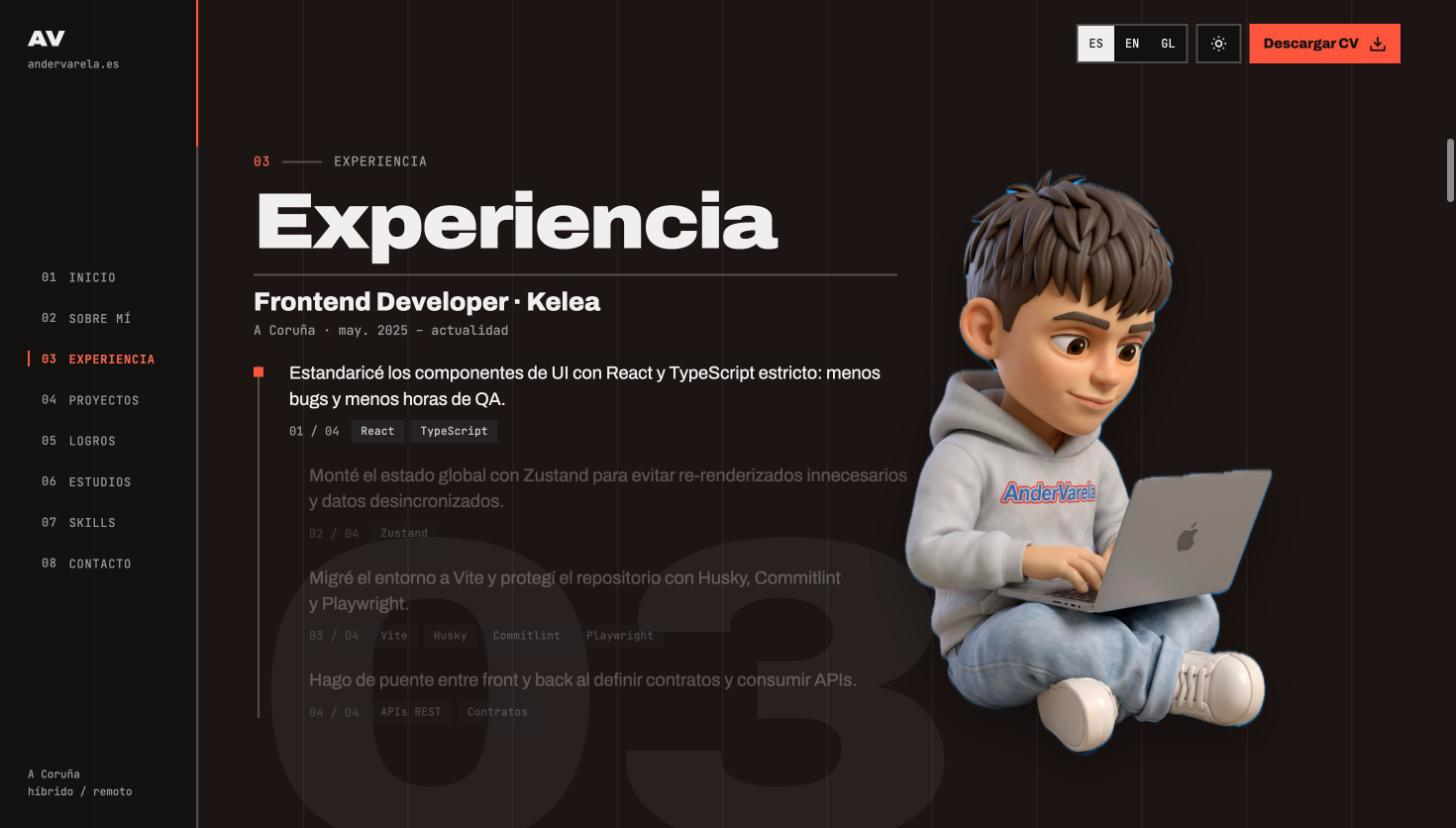
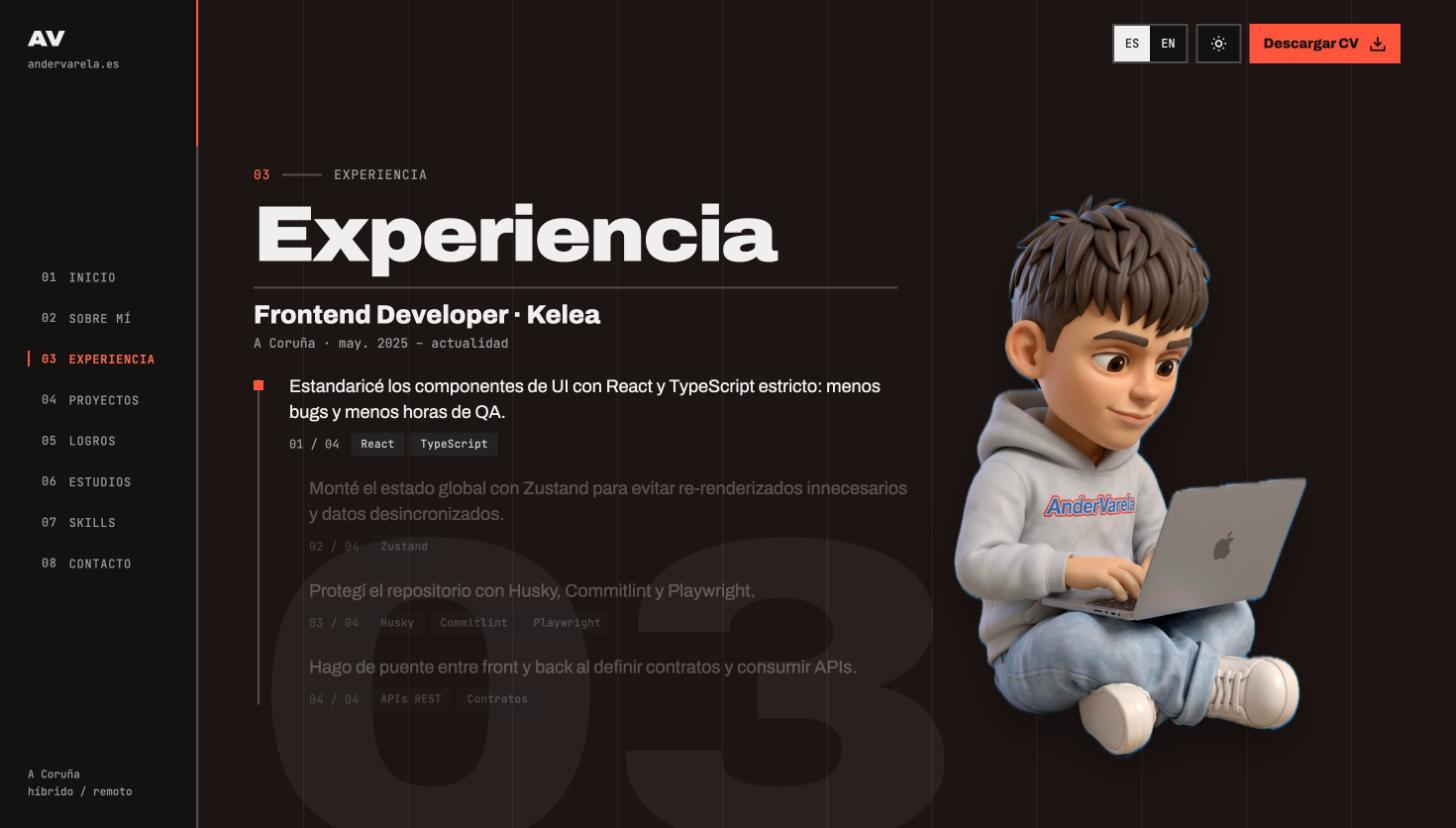
feat: remove the Galician language from the site

diff --git a/src/i18n/useTranslation.ts b/src/i18n/useTranslation.ts
@@ -3,12 +3,10 @@ import { usePreferencesStore } from '@/stores/usePreferencesStore';
 import { Languages, type Language } from './languages';
 import { englishTranslation } from './translations/en';
 import { spanishTranslation, type Translation } from './translations/es';
-import { galicianTranslation } from './translations/gl';
 
 const TRANSLATION_BY_LANGUAGE: Record<Language, Translation> = {
   [Languages.Spanish]: spanishTranslation,
   [Languages.English]: englishTranslation,
-  [Languages.Galician]: galicianTranslation,
 };
 
 export function useTranslation(): Translation {

diff --git a/src/i18n/languages.ts b/src/i18n/languages.ts
@@ -1,7 +1,6 @@
 export const Languages = {
   Spanish: 'es',
   English: 'en',
-  Galician: 'gl',
 } as const;
 
 export type Language = (typeof Languages)[keyof typeof Languages];
@@ -12,7 +11,6 @@ export const SUPPORTED_LANGUAGES: readonly Language[] = Object.values(Languages)
 export const LANGUAGE_NAMES: Record<Language, string> = {
   [Languages.Spanish]: 'Español',
   [Languages.English]: 'English',
-  [Languages.Galician]: 'Galego',
 };
 
 export const DEFAULT_LANGUAGE: Language = Languages.Spanish;

diff --git a/docs/documento-funcional.md b/docs/documento-funcional.md
@@ -42,7 +42,7 @@ Cercano y en primera persona. Se abandona el tono de venta del CV ("elimino ries
 - Avatar 3D con poses por sección y seguimiento del cursor.
 - Sistema de capas con animaciones ligadas al scroll.
 - Detalle de proyecto en capa superpuesta, sin cambiar de página.
-- Tres idiomas: español, inglés y gallego.
+- Dos idiomas: español e inglés.
 - Tema oscuro (por defecto) y claro.
 - Descarga del CV en PDF.
 - Versión adaptada a móvil y a "reducir movimiento".
@@ -81,7 +81,7 @@ Una sola URL. Cada sección tiene un ancla propia.
 - Un enlace por sección. Al pulsarlo, la página hace scroll animado hasta la sección; no hay navegación entre páginas.
 - La sección actual queda marcada en el menú y se actualiza al hacer scroll manualmente.
 - El ancla de la URL se actualiza con la sección activa, de modo que un enlace como `andervarela.es/#proyectos` abre directamente en esa sección.
-- Incluye además: selector de idioma (ES / EN / GL), conmutador de tema y botón "Descargar CV".
+- Incluye además: selector de idioma (ES / EN), conmutador de tema y botón "Descargar CV".
 - Indicador de progreso de scroll de la página.
 
 ### 4.2 Menú en móvil
@@ -267,8 +267,8 @@ Al pasar el cursor por una tecnología, se resaltan los proyectos y experiencias
 
 ### 8.1 Idiomas
 
-- Español (por defecto), inglés y gallego.
-- En la primera visita se usa el idioma del navegador si es uno de los tres; en otro caso, español.
+- Español (por defecto) e inglés.
+- En la primera visita se usa el idioma del navegador si es uno de los dos; en otro caso, español.
 - El cambio de idioma es instantáneo, no recarga la página y conserva la posición de scroll.
 - La elección se recuerda en visitas posteriores.
 - El CV descargable corresponde al idioma activo si existe esa versión; si no, se descarga el español.
@@ -316,7 +316,7 @@ En móvil se puede minimizar el avatar tocándolo.
 
 - Metadatos, Open Graph e imagen de vista previa por idioma.
 - Datos estructurados de tipo `Person`.
-- Etiquetas `hreflang` para los tres idiomas.
+- Etiquetas `hreflang` para los dos idiomas.
 
 ### 10.4 Privacidad
 
@@ -337,7 +337,7 @@ En móvil se puede minimizar el avatar tocándolo.
 | Animación y scroll | GSAP con ScrollTrigger |
 | Estado | Zustand (idioma, tema, sección activa, proyecto abierto) |
 | Estilos | CSS Modules con variables para los temas |
-| Idiomas | Ficheros de traducción por idioma (ES / EN / GL) |
+| Idiomas | Ficheros de traducción por idioma (ES / EN) |
 | Calidad | Playwright, Husky, Commitlint |
 | Despliegue | Hosting estático en `andervarela.es` |
 
@@ -366,5 +366,5 @@ Información que falta para completar el contenido:
 | 5 | Capturas de pantalla de cada proyecto | Proyectos |
 | 6 | Las cinco fotos de referencia para el avatar | Avatar |
 | 7 | Decidir quién modela el avatar (herramienta de IA, modelador 3D o propio) | Avatar |
-| 8 | Versiones del CV en inglés y gallego | Descarga de CV |
+| 8 | Versión del CV en inglés | Descarga de CV |
 | 9 | Elegir una de las tres paletas tras el prototipo | Diseño |
